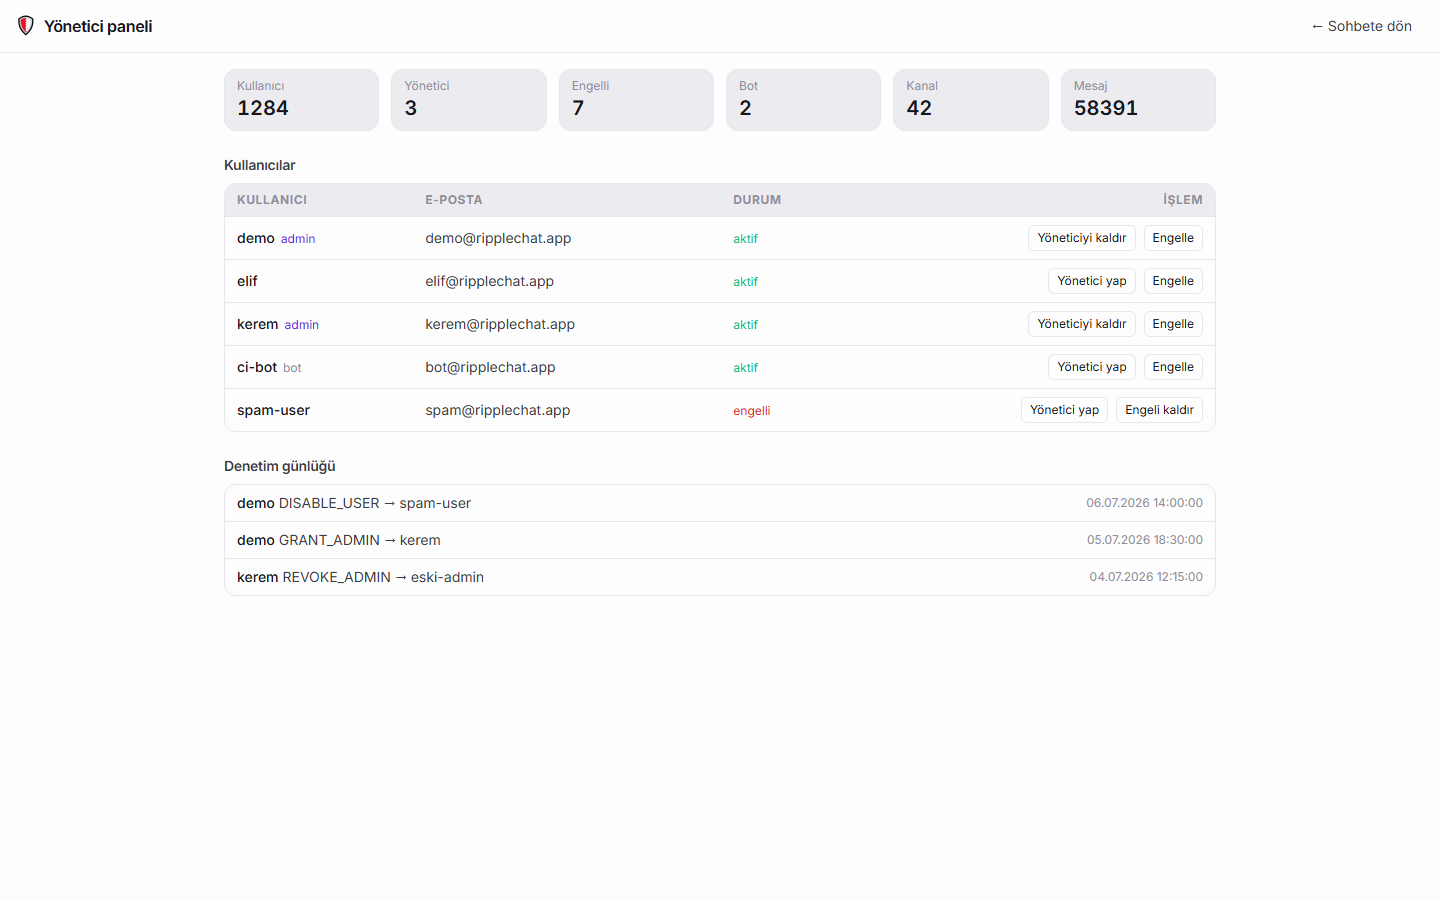
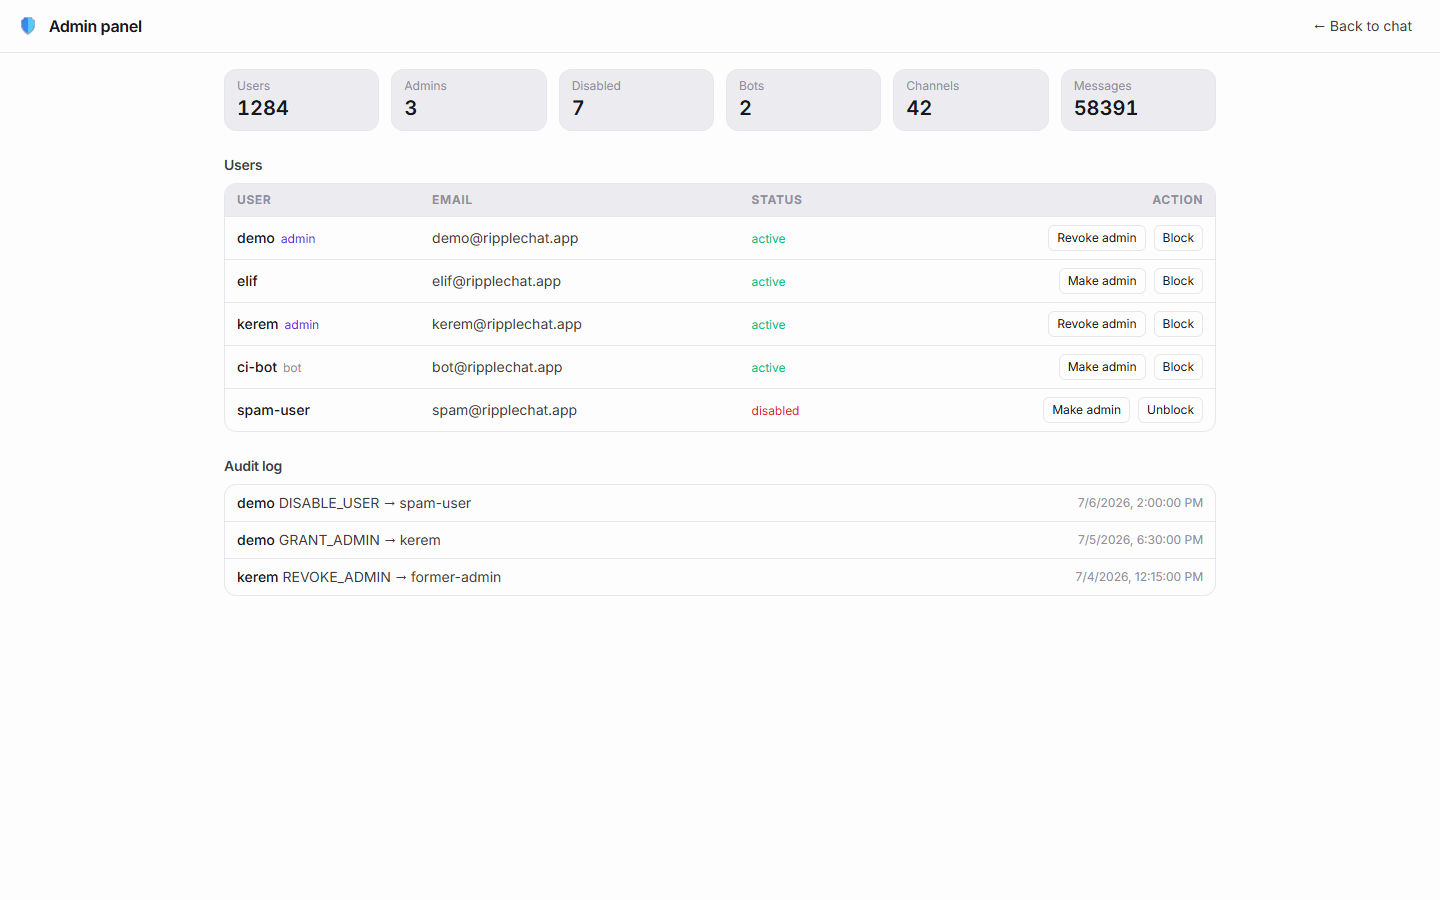
docs: regenerate every screenshot in English
The app follows the browser language and defaults to English for anyone outside
Turkey, but every shipped image was Turkish — so a reader who does not speak
Turkish could not tell what any feature does.

Two of them are not just documentation:

  - src/assets/product-dark.png is framed inside the landing page hero, so the
    live site showed an English page wrapped around a Turkish screenshot
  - public/og-image.png is the Open Graph card, i.e. the preview anyone sharing
    the demo link sees on LinkedIn or Slack

Both are now generated by the same spec as the docs shots rather than being
hand-made one-offs, so they cannot drift out of sync with the UI again. The spec
pins the browser locale to en-US and its stub content is translated along with
it (channels #general / #engineering, "Demo User", English message bodies).

Regenerate with: SHOTS=1 npx playwright test screenshots

diff --git a/frontend/e2e/screenshots.spec.ts b/frontend/e2e/screenshots.spec.ts
@@ -10,15 +10,15 @@ import { test, expect, type Page } from '@playwright/test'
  */
 test.skip(!process.env.SHOTS, 'screenshot generation — run with SHOTS=1')
 
-test.use({ viewport: { width: 1440, height: 900 } })
+test.use({ viewport: { width: 1440, height: 900 }, locale: 'en-US' })
 
-const me = { id: 'u-me', username: 'demo', displayName: 'Demo Kullanıcı', avatarColor: 'indigo' }
+const me = { id: 'u-me', username: 'demo', displayName: 'Demo User', avatarColor: 'indigo' }
 const elif = { id: 'u-elif', username: 'elif', displayName: 'Elif', avatarColor: 'rose' }
 const kerem = { id: 'u-kerem', username: 'kerem', displayName: 'Kerem', avatarColor: 'emerald' }
 
 const channels = [
-  { id: 'c-genel', name: 'genel', description: 'Herkese açık genel sohbet', isPrivate: false, createdBy: me, createdAt: '2026-01-01T09:00:00Z' },
-  { id: 'c-yazilim', name: 'yazılım', description: 'Kod, araçlar ve geliştirme', isPrivate: false, createdBy: me, createdAt: '2026-01-01T09:00:00Z' },
+  { id: 'c-genel', name: 'general', description: 'Open to everyone', isPrivate: false, createdBy: me, createdAt: '2026-01-01T09:00:00Z' },
+  { id: 'c-yazilim', name: 'engineering', description: 'Code, tooling and releases', isPrivate: false, createdBy: me, createdAt: '2026-01-01T09:00:00Z' },
 ]
 const dms = [{ id: 'dm-1', otherUser: { ...elif, publicKey: '{"kty":"EC","crv":"P-256"}', lastSeenAt: '2026-01-02T11:50:00Z' }, createdAt: '2026-01-02T10:00:00Z' }]
 
@@ -32,21 +32,21 @@ function msg(id: string, channelId: string, sender: typeof me, content: string, 
 }
 
 const genelMessages = [
-  msg('m6', 'c-genel', kerem, '```js\nfunction selamla(ad) {\n  return `Merhaba, ${ad}!`\n}\nconsole.log(selamla("RippleChat"))\n```'),
-  msg('m5', 'c-genel', elif, 'Markdown da var: **kalın**, *italik* ve `satır içi kod` 🙂'),
-  msg('m4', 'c-genel', me, 'Bir mesaja emoji ile tepki verebilir, thread açabilirsiniz 🧵', {
+  msg('m6', 'c-genel', kerem, '```js\nfunction greet(name) {\n  return `Hello, ${name}!`\n}\nconsole.log(greet("RippleChat"))\n```'),
+  msg('m5', 'c-genel', elif, 'Markdown works too: **bold**, *italic* and `inline code` 🙂'),
+  msg('m4', 'c-genel', me, 'React with an emoji, or open a thread on any message 🧵', {
     reactions: [{ emoji: '🎉', count: 2, users: ['elif', 'kerem'] }],
     thread: { replyCount: 2, lastRepliers: [elif, kerem] },
   }),
-  msg('m3', 'c-genel', kerem, 'Gerçek zamanlı çalışıyor — yazınca anında düşüyor ⚡'),
-  msg('m2', 'c-genel', elif, 'Selam! Buraya yeni taşındık 👋'),
-  msg('m1', 'c-genel', me, "RippleChat'e hoş geldiniz! 🎉", { reactions: [{ emoji: '🔥', count: 1, users: ['elif'] }] }),
+  msg('m3', 'c-genel', kerem, 'It is realtime — messages land the moment you hit send ⚡'),
+  msg('m2', 'c-genel', elif, 'Hey! We just moved the team over here 👋'),
+  msg('m1', 'c-genel', me, 'Welcome to RippleChat! 🎉', { reactions: [{ emoji: '🔥', count: 1, users: ['elif'] }] }),
 ]
 const dmMessages = [
-  msg('d4', 'dm-1', elif, 'Şifreli mesajlar sadece bizim cihazlarımızda çözülüyor 🔐'),
-  msg('d3', 'dm-1', me, 'Evet, uçtan uca şifreleme aktif! 🔒'),
-  msg('d2', 'dm-1', elif, 'Tabii, birazdan bakarım 👀'),
-  msg('d1', 'dm-1', me, 'Selam Elif, tasarım dosyasına göz atabilir misin?'),
+  msg('d4', 'dm-1', elif, 'Encrypted messages are only decrypted on our own devices 🔐'),
+  msg('d3', 'dm-1', me, 'Yes — end-to-end encryption is on! 🔒'),
+  msg('d2', 'dm-1', elif, 'Sure, I will take a look shortly 👀'),
+  msg('d1', 'dm-1', me, 'Hi Elif, could you look over the design file?'),
 ]
 
 const page0 = (content: unknown[]) => ({ content, page: 0, size: 50, totalElements: content.length, totalPages: 1, last: true })
@@ -74,7 +74,7 @@ async function stub(page: Page, authed = true) {
     if (pathname.endsWith('/api/admin/overview')) return json({ totalUsers: 1284, admins: 3, disabledUsers: 7, bots: 2, totalChannels: 42, totalMessages: 58391 })
     if (pathname.includes('/api/admin/users')) return json({
       content: [
-        { id: 'u-me', username: 'demo', email: 'demo@ripplechat.app', displayName: 'Demo Kullanıcı', admin: true, disabled: false, deleted: false, bot: false, createdAt: '2026-01-01T09:00:00Z', lastSeenAt: '2026-07-06T12:00:00Z' },
+        { id: 'u-me', username: 'demo', email: 'demo@ripplechat.app', displayName: 'Demo User', admin: true, disabled: false, deleted: false, bot: false, createdAt: '2026-01-01T09:00:00Z', lastSeenAt: '2026-07-06T12:00:00Z' },
         { id: 'u-elif', username: 'elif', email: 'elif@ripplechat.app', displayName: 'Elif', admin: false, disabled: false, deleted: false, bot: false, createdAt: '2026-01-02T10:00:00Z', lastSeenAt: '2026-07-06T11:30:00Z' },
         { id: 'u-kerem', username: 'kerem', email: 'kerem@ripplechat.app', displayName: 'Kerem', admin: true, disabled: false, deleted: false, bot: false, createdAt: '2026-01-03T08:00:00Z', lastSeenAt: '2026-07-06T10:00:00Z' },
         { id: 'u-bot', username: 'ci-bot', email: 'bot@ripplechat.app', displayName: 'CI Bot', admin: false, disabled: false, deleted: false, bot: true, createdAt: '2026-02-01T12:00:00Z', lastSeenAt: null },
@@ -85,7 +85,7 @@ async function stub(page: Page, authed = true) {
       content: [
         { id: 'a-1', actor: 'demo', action: 'DISABLE_USER', target: 'spam-user', details: null, createdAt: '2026-07-06T11:00:00Z' },
         { id: 'a-2', actor: 'demo', action: 'GRANT_ADMIN', target: 'kerem', details: null, createdAt: '2026-07-05T15:30:00Z' },
-        { id: 'a-3', actor: 'kerem', action: 'REVOKE_ADMIN', target: 'eski-admin', details: null, createdAt: '2026-07-04T09:15:00Z' },
+        { id: 'a-3', actor: 'kerem', action: 'REVOKE_ADMIN', target: 'former-admin', details: null, createdAt: '2026-07-04T09:15:00Z' },
       ],
     })
     return json([])
@@ -99,13 +99,16 @@ test('landing', async ({ page }) => {
   await page.goto('/')
   await expect(page.getByRole('heading', { name: /Ripple/i })).toBeVisible()
   await page.screenshot({ path: '../docs/screenshots/landing.png' })
+  // Same frame doubles as the Open Graph card — the preview anyone sharing the
+  // demo link sees. index.html declares it as 1440x900, which is this viewport.
+  await page.screenshot({ path: 'public/og-image.png' })
 })
 
 test('channel', async ({ page }) => {
   await stub(page)
   await page.goto('/chat')
-  await page.getByRole('button', { name: /genel/i }).first().click()
-  await expect(page.getByText('hoş geldiniz', { exact: false })).toBeVisible()
+  await page.getByRole('button', { name: /general/i }).first().click()
+  await expect(page.getByText('Welcome to RippleChat', { exact: false })).toBeVisible()
   // Hide the "reconnecting" banner (no WebSocket server in screenshot mode).
   await page.addStyleTag({ content: HIDE_BANNER })
   await page.screenshot({ path: '../docs/screenshots/channel.png' })
@@ -115,7 +118,7 @@ test('direct-message', async ({ page }) => {
   await stub(page)
   await page.goto('/chat')
   await page.getByRole('button', { name: /Elif/ }).first().click()
-  await expect(page.getByText('tasarım dosyasına', { exact: false })).toBeVisible()
+  await expect(page.getByText('design file', { exact: false })).toBeVisible()
   await page.addStyleTag({ content: HIDE_BANNER })
   await page.screenshot({ path: '../docs/screenshots/direct-message.png' })
 })
@@ -132,10 +135,14 @@ test('channel-dark', async ({ page }) => {
   await page.goto('/chat')
   // Ensure dark class is actually on the html element after hydration.
   await page.evaluate(() => document.documentElement.classList.add('dark'))
-  await page.getByRole('button', { name: /genel/i }).first().click()
-  await expect(page.getByText('hoş geldiniz', { exact: false })).toBeVisible()
+  await page.getByRole('button', { name: /general/i }).first().click()
+  await expect(page.getByText('Welcome to RippleChat', { exact: false })).toBeVisible()
   await page.addStyleTag({ content: HIDE_BANNER })
   await page.screenshot({ path: '../docs/screenshots/channel-dark.png' })
+  // The landing page frames this same shot inside a browser chrome, so it is
+  // generated here too — otherwise it drifts out of sync with the real UI
+  // (it shipped in Turkish long after the app defaulted to English).
+  await page.screenshot({ path: 'src/assets/product-dark.png' })
 })
 
 test('mobile', async ({ page }) => {
@@ -143,11 +150,11 @@ test('mobile', async ({ page }) => {
   await page.setViewportSize({ width: 390, height: 844 })
   await stub(page)
   await page.goto('/chat')
-  // The sidebar is off-canvas on mobile — open it with the "Kanallar"
+  // The sidebar is off-canvas on mobile — open it with the "Channels"
   // button first; picking a channel closes it again.
-  await page.getByRole('button', { name: 'Kanallar', exact: true }).click()
-  await page.getByRole('button', { name: /genel/i }).first().click()
-  await expect(page.getByText('hoş geldiniz', { exact: false })).toBeVisible()
+  await page.getByRole('button', { name: 'Channels', exact: true }).click()
+  await page.getByRole('button', { name: /general/i }).first().click()
+  await expect(page.getByText('Welcome to RippleChat', { exact: false })).toBeVisible()
   await page.addStyleTag({ content: HIDE_BANNER })
   await page.screenshot({ path: '../docs/screenshots/mobile.png' })
 })
@@ -169,18 +176,18 @@ test('search', async ({ page }) => {
       contentType: 'application/json',
       body: JSON.stringify({
         results: [
-          { id: 's1', channelId: 'c-genel', channelName: 'genel', sender: kerem, content: 'Gerçek zamanlı çalışıyor — yazınca anında düşüyor ⚡', createdAt: '2026-01-02T12:00:00Z' },
-          { id: 's2', channelId: 'c-genel', channelName: 'genel', sender: elif, content: 'Markdown da var: kalın, italik ve satır içi kod 🙂', createdAt: '2026-01-02T11:40:00Z' },
-          { id: 's3', channelId: 'c-yazilim', channelName: 'yazılım', sender: me, content: 'Arama Elasticsearch üzerinde çalışıyor, PostgreSQL fallback ile', createdAt: '2026-01-02T09:15:00Z' },
+          { id: 's1', channelId: 'c-genel', channelName: 'general', sender: kerem, content: 'It is realtime — messages land the moment you hit send ⚡', createdAt: '2026-01-02T12:00:00Z' },
+          { id: 's2', channelId: 'c-genel', channelName: 'general', sender: elif, content: 'Markdown works too: bold, italic and inline code 🙂', createdAt: '2026-01-02T11:40:00Z' },
+          { id: 's3', channelId: 'c-yazilim', channelName: 'engineering', sender: me, content: 'Search runs on Elasticsearch, with a PostgreSQL fallback', createdAt: '2026-01-02T09:15:00Z' },
         ],
         hasMore: false,
       }),
     }),
   )
   await page.goto('/chat')
-  await page.getByTitle('Mesajlarda ara').click()
-  await page.getByPlaceholder('Mesajlarda ara...').fill('çalışıyor')
-  await expect(page.getByText('Arama Elasticsearch', { exact: false })).toBeVisible()
+  await page.getByTitle('Search messages').click()
+  await page.getByPlaceholder('Search messages...').fill('realtime')
+  await expect(page.getByText('Search runs on Elasticsearch', { exact: false })).toBeVisible()
   await page.addStyleTag({ content: HIDE_BANNER })
   await page.screenshot({ path: '../docs/screenshots/search.png' })
 })
@@ -189,12 +196,12 @@ test('e2ee', async ({ page }) => {
   await stub(page)
   await page.goto('/chat')
   await page.getByRole('button', { name: /Elif/ }).first().click()
-  await expect(page.getByText('tasarım dosyasına', { exact: false })).toBeVisible()
+  await expect(page.getByText('design file', { exact: false })).toBeVisible()
   await page.addStyleTag({ content: HIDE_BANNER })
-  // The DM stub has publicKey set, so the "🔒 E2EE Aktif" badge should render
+  // The DM stub has publicKey set, so the "🔒 E2EE active" badge should render
   // automatically in the header. Verify it's there for the screenshot.
   // If the badge doesn't render (no real session), inject it.
-  const badge = page.locator('text=E2EE Aktif')
+  const badge = page.locator('text=E2EE active')
   const badgeVisible = await badge.isVisible().catch(() => false)
   if (!badgeVisible) {
     await page.evaluate(() => {
@@ -203,7 +210,7 @@ test('e2ee', async ({ page }) => {
       if (header) {
         const badge = document.createElement('div')
         badge.className = 'flex items-center gap-1 text-xs font-semibold text-emerald-600 dark:text-emerald-500 bg-emerald-100 dark:bg-emerald-950/40 px-2 py-1 rounded'
-        badge.textContent = '🔒 E2EE Aktif'
+        badge.textContent = '🔒 E2EE active'
         const actionBar = header.querySelector('div:last-child')
         if (actionBar) actionBar.prepend(badge)
       }
